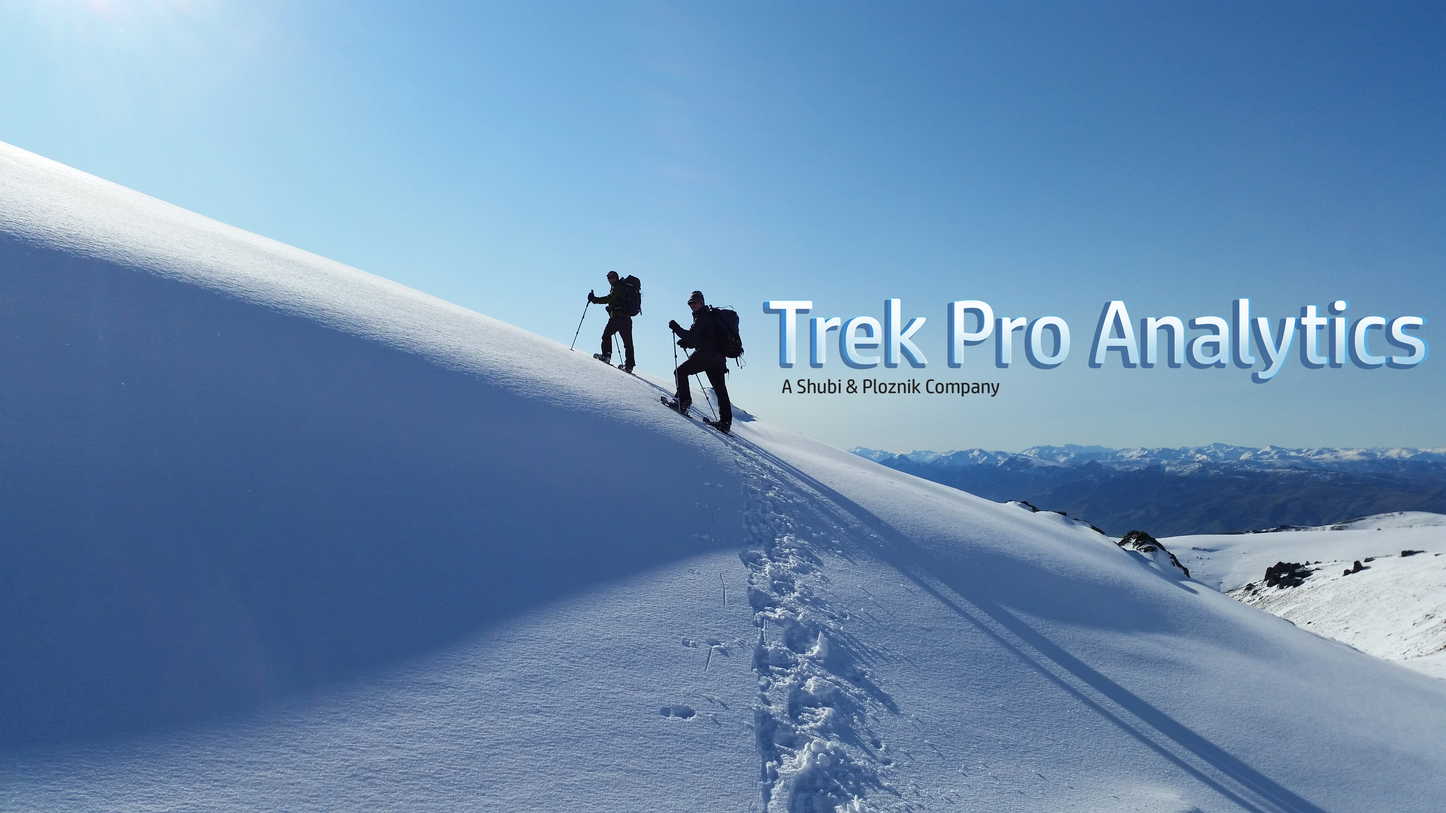
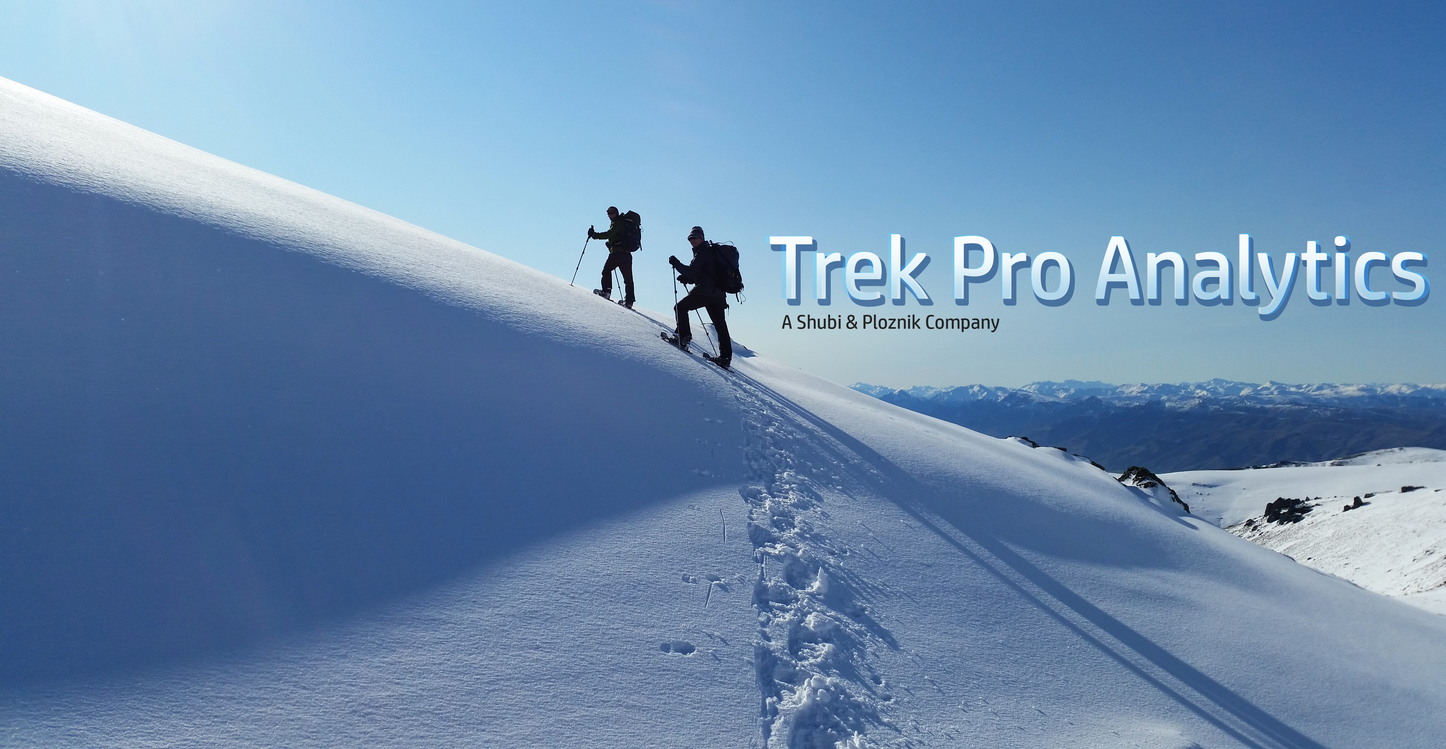
wip

Changed region(s): [[0.0, 0.0927, 1.0, 1.0], [0.0312, 0.0, 0.0938, 0.0309]]

diff --git a/style.css b/style.css
@@ -45,11 +45,11 @@ a:active   {color:yellow}
 a:hover    {color:blue}
 
 body.main {
-    background: cadetblue;
+    background: #263f63;
     background-size: cover;
     text-align: center;
     margin-left: 0px;
-    margin-bottom: 0px;
+    margin-top: 0px;
     margin-right: 0px;
 }
 

diff --git a/insertData.php b/insertData.php
@@ -30,7 +30,8 @@
             <tr>
                 <td><label for="fullName">Full Name</label></td>
                 <td><label>
-                        <input name="fullName" type="text" size="24" placeholder="Your name here">
+                        <input name="fullName" type="text" size="24"
+                               placeholder="Your name here" maxlength="20">
                     </label></td>
             </tr>
             <tr></tr>
@@ -39,7 +40,8 @@
             <tr>
                 <td><label for="originCountry">Country</label></td>
                 <td><label>
-                        <input name="originCountry" type="text" size="24" placeholder="Country of Birth">
+                        <input name="originCountry" type="text" size="24"
+                               placeholder="Country of Birth" maxlength="20">
                     </label></td>
             </tr>
             <tr></tr>
@@ -102,10 +104,10 @@
 
             // In case of failure
             if (!$sql_result) {
-                die("<h3 style='color:darkred;'>UPLOAD FAILED<br>(Full Name & Country Max 20 Characters)</h3>");
+                die("<h3 style='color:darkred;'>Upload Failed. Please try again.</h3>");
             }
             else{
-                echo "<H3 style='color: darkgreen'>Hiker Added</H3>";
+                echo "<H3 style='color: darkgreen'>Hiker Added Successfully</H3>";
             }
         }
     /* Close the connection. */

diff --git a/index.php b/index.php
@@ -10,15 +10,15 @@
 
 <body class="main">
 
-    <img src="banner.jpg" alt="Trek Pro Analytics Logo" style="width: 100%; border: 1px solid black">
+    <img src="banner.jpg" alt="Trek Pro Analytics Logo" style="width: 100%; ">
 
     <div class="layer">
 
-        <h1 style="color: #093738">
+        <h1 style="color: ghostwhite">
             <br>Trek Pro Analytics<br>
         </h1>
        <div style="background-color: rgba(255,255,255,0.7)">
-           <h3  style="color: #093738; vertical-align: center">
+           <h3  style="color: ghostwhite; vertical-align: center">
                <i>Advanced Database & Analytics Tool. For Hikers by Hikers.</i>
            </h3>
        </div>
@@ -34,7 +34,7 @@
         <iframe name="MainFrame" src="displayTable.php"></iframe>
         <br>
 
-    <footer style="color: #2e0e6b"><br>&copy; COPYRIGHT 2019 | PLOZNIK & SHUBI</footer>
+    <footer style="color: white"><br>&copy; COPYRIGHT 2019 | PLOZNIK & SHUBI</footer>
     </div>
 </body>
 </html>
